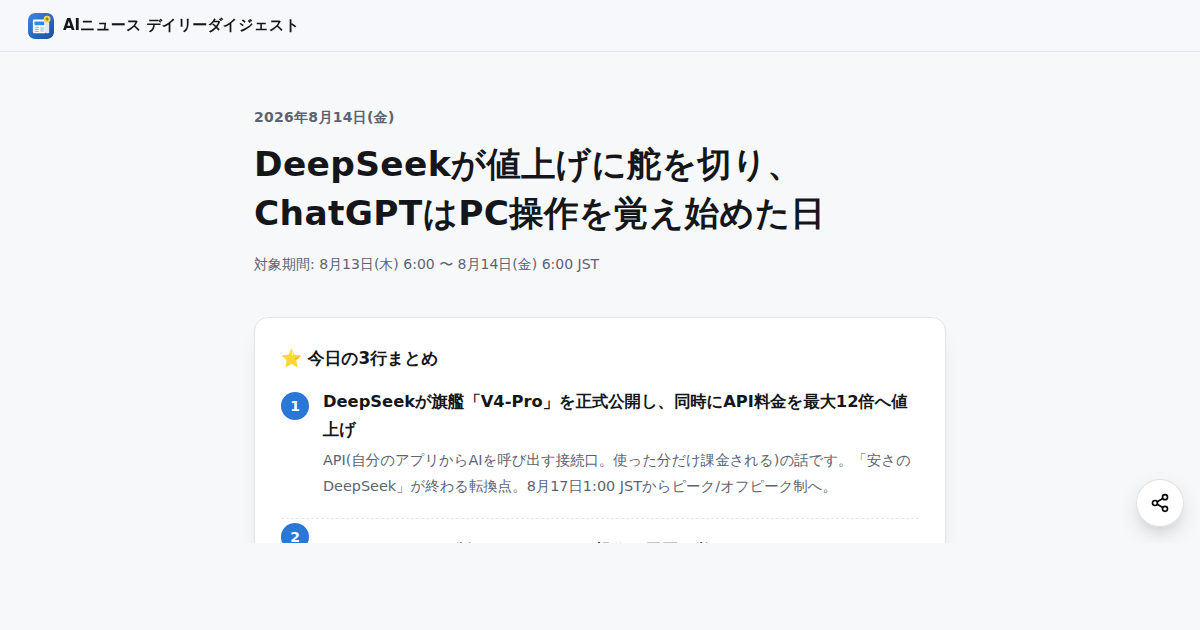
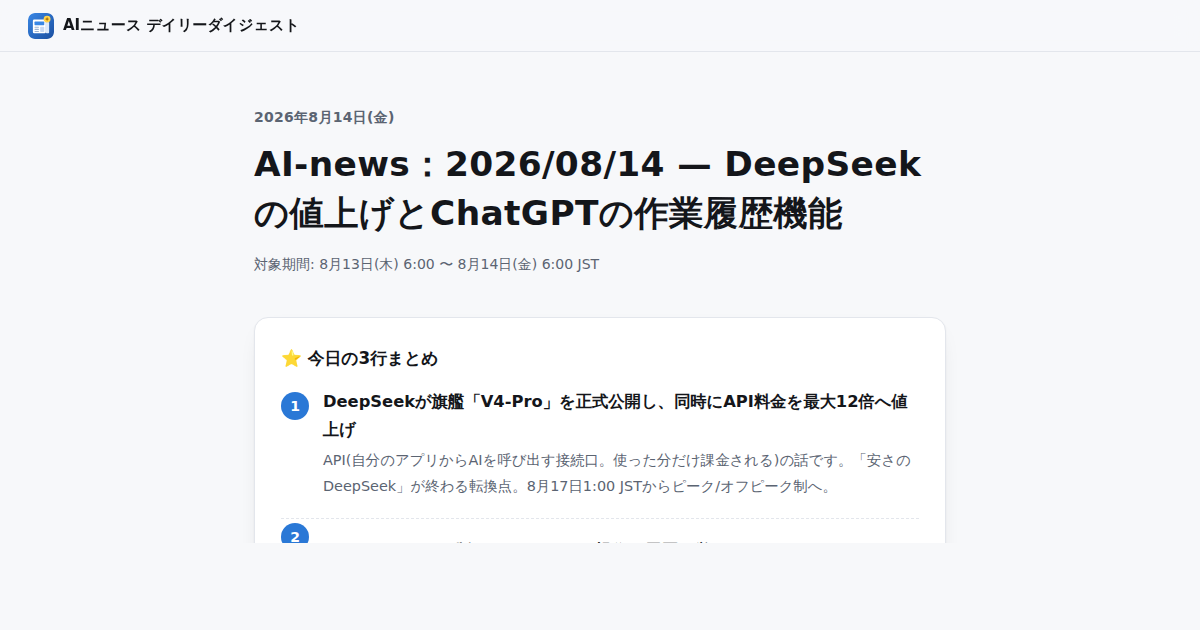
サムネイルを全21枚撮り直し、OGP画像を記事ごとの絵に変更
サムネイルに2つ問題があった。

1. 19枚が古いまま残っていた。サムネイルは記事の見出しを写した画像なので、
   タイトルを直しても撮り直さないと、ホームのカードとSNSのシェア画像にだけ
   昔の見出しが残る。8/15のダイジェストは、AI-news形式に直す前の
   「…黙って背景実行になり…「最強」を名乗った日」を表示したままだった。
2. 全枚数に、画面右下に浮いているシェアボタンが写り込んでいた。
   chromium に記事HTMLをそのまま撮らせていたため。

_render_thumbs.py を追加した。撮影用の一時HTMLを作り、シェアボタン・
コメント欄・計測タグを外してから撮る。記事本体は書き換えない。
--stale を付けると、記事HTMLより古いものだけを撮り直す。

あわせて og:image / twitter:image を、共通の ogp.png ではなく
その記事自身のサムネイルに向けた(_build_index.py が生成時に差し替える)。
これまではどの記事をシェアしても同じ絵が出て、見分けが付かなかった。

ホームの「毎朝 6:00 JST 更新」も 5:00 に直した。実際の定期実行は
5:00 JST で、表示だけが古いまま残っていた(description と README も同様)。

全21枚を Read で目視確認。1200x630、内容の重複なし。
表示検証は44通り(21記事+ホーム × 380/900px)で問題なし。

Changed region(s): [[0.2158, 0.2111, 0.7708, 0.3619], [0.9558, 0.7841, 0.9867, 0.8143]]

diff --git a/_templates/home.html b/_templates/home.html
@@ -4,12 +4,12 @@
 <meta charset="utf-8">
 <meta name="viewport" content="width=device-width, initial-scale=1">
 <title>AIニュース デイリーダイジェスト</title>
-<meta name="description" content="世界のAIニュースを日本語で、毎朝6:00にお届けするデイリーダイジェスト">
+<meta name="description" content="世界のAIニュースを日本語で、毎朝5:00にお届けするデイリーダイジェスト">
 <link rel="icon" type="image/svg+xml" href="favicon.svg">
 <link rel="apple-touch-icon" href="favicon.svg">
 <meta property="og:type" content="website">
 <meta property="og:title" content="AIニュース デイリーダイジェスト">
-<meta property="og:description" content="世界のAIニュースを日本語で、毎朝6:00にお届け">
+<meta property="og:description" content="世界のAIニュースを日本語で、毎朝5:00にお届け">
 <meta property="og:url" content="https://reishisu.github.io/ai-news/">
 <meta property="og:image" content="https://reishisu.github.io/ai-news/ogp.png">
 <meta name="twitter:card" content="summary_large_image">
@@ -23,7 +23,7 @@
     <img src="favicon.svg" alt="" width="28" height="28">
     <span>AIニュース デイリーダイジェスト</span>
   </a>
-  <span class="topbar-chip"><span class="dot"></span>毎朝 6:00 JST 更新</span>
+  <span class="topbar-chip"><span class="dot"></span>毎朝 5:00 JST 更新</span>
 </header>
 
 <main class="container">

diff --git a/index.html b/index.html
@@ -4,12 +4,12 @@
 <meta charset="utf-8">
 <meta name="viewport" content="width=device-width, initial-scale=1">
 <title>AIニュース デイリーダイジェスト</title>
-<meta name="description" content="世界のAIニュースを日本語で、毎朝6:00にお届けするデイリーダイジェスト">
+<meta name="description" content="世界のAIニュースを日本語で、毎朝5:00にお届けするデイリーダイジェスト">
 <link rel="icon" type="image/svg+xml" href="favicon.svg">
 <link rel="apple-touch-icon" href="favicon.svg">
 <meta property="og:type" content="website">
 <meta property="og:title" content="AIニュース デイリーダイジェスト">
-<meta property="og:description" content="世界のAIニュースを日本語で、毎朝6:00にお届け">
+<meta property="og:description" content="世界のAIニュースを日本語で、毎朝5:00にお届け">
 <meta property="og:url" content="https://reishisu.github.io/ai-news/">
 <meta property="og:image" content="https://reishisu.github.io/ai-news/ogp.png">
 <meta name="twitter:card" content="summary_large_image">
@@ -23,7 +23,7 @@
     <img src="favicon.svg" alt="" width="28" height="28">
     <span>AIニュース デイリーダイジェスト</span>
   </a>
-  <span class="topbar-chip"><span class="dot"></span>毎朝 6:00 JST 更新</span>
+  <span class="topbar-chip"><span class="dot"></span>毎朝 5:00 JST 更新</span>
 </header>
 
 <main class="container">

diff --git a/contents/2026-08-15_aws-iam-first/index.html b/contents/2026-08-15_aws-iam-first/index.html
@@ -11,7 +11,7 @@
 <meta property="og:title" content="AWSのアクセス制御の地図 — IAMのユーザー・ロール・ポリシーは何が違うのか">
 <meta property="og:description" content="ユーザーとロールの違い、許可ポリシーと信頼ポリシーの見分け方、ECS on Fargateの2つのロール。公式ドキュメントの原文とローカル検証で整理します。">
 <meta property="og:url" content="https://reishisu.github.io/ai-news/contents/2026-08-15_aws-iam-first/">
-<meta property="og:image" content="https://reishisu.github.io/ai-news/ogp.png">
+<meta property="og:image" content="https://reishisu.github.io/ai-news/contents/2026-08-15_aws-iam-first/images/thumb.png">
 <meta name="twitter:card" content="summary_large_image">
 <link rel="stylesheet" href="../../css/article.css?v=87fa5662">
 

diff --git a/contents/2026-08-14_loop-graph/index.html b/contents/2026-08-14_loop-graph/index.html
@@ -11,7 +11,7 @@
 <meta property="og:title" content="ループエンジニアリングとグラフエンジニアリング — Claude Codeで設計する">
 <meta property="og:description" content="プロンプトを書く時代から、ループとグラフを設計する時代へ。停止条件の書き方と、ループからグラフへ移る判断基準を整理します。">
 <meta property="og:url" content="https://reishisu.github.io/ai-news/contents/2026-08-14_loop-graph/">
-<meta property="og:image" content="https://reishisu.github.io/ai-news/ogp.png">
+<meta property="og:image" content="https://reishisu.github.io/ai-news/contents/2026-08-14_loop-graph/images/thumb.png">
 <meta name="twitter:card" content="summary_large_image">
 <link rel="stylesheet" href="../../css/article.css?v=87fa5662">
 

diff --git a/contents/2026-08-14_progress-signals/index.html b/contents/2026-08-14_progress-signals/index.html
@@ -11,7 +11,7 @@
 <meta property="og:title" content="進行管理の指標 — gitログから停滞を検出する">
 <meta property="og:description" content="詰まっている人を本人が言い出す前に見つける。2020年版スクラムガイドに3つの質問は無く、しきい値の決め打ちは実データで何も検出しませんでした。">
 <meta property="og:url" content="https://reishisu.github.io/ai-news/contents/2026-08-14_progress-signals/">
-<meta property="og:image" content="https://reishisu.github.io/ai-news/ogp.png">
+<meta property="og:image" content="https://reishisu.github.io/ai-news/contents/2026-08-14_progress-signals/images/thumb.png">
 <meta name="twitter:card" content="summary_large_image">
 <link rel="stylesheet" href="../../css/article.css?v=87fa5662">
 

diff --git a/contents/2026-08-15_ecs-fargate-first/index.html b/contents/2026-08-15_ecs-fargate-first/index.html
@@ -11,7 +11,7 @@
 <meta property="og:title" content="ECS on Fargate の登場人物 — クラスタ・タスク定義・サービス・ALB">
 <meta property="og:description" content="クラスタは「サーバーの集まり」ではありません。名前だけで作れる区切りです。公式の原文と実出力で登場人物を整理します。">
 <meta property="og:url" content="https://reishisu.github.io/ai-news/contents/2026-08-15_ecs-fargate-first/">
-<meta property="og:image" content="https://reishisu.github.io/ai-news/ogp.png">
+<meta property="og:image" content="https://reishisu.github.io/ai-news/contents/2026-08-15_ecs-fargate-first/images/thumb.png">
 <meta name="twitter:card" content="summary_large_image">
 <link rel="stylesheet" href="../../css/article.css?v=87fa5662">
 

diff --git a/contents/2026-08-15_unity-web-on-aws/index.html b/contents/2026-08-15_unity-web-on-aws/index.html
@@ -11,7 +11,7 @@
 <meta property="og:title" content="Unity WebのビルドをAWSで配ってもらう — COOP/COEP/CORPの依頼先">
 <meta property="og:description" content="ALBでは付けられません。CloudFrontのレスポンスヘッダーポリシーです。同じヘッダーが2本返ると、仕様どおり無言で解除されます。">
 <meta property="og:url" content="https://reishisu.github.io/ai-news/contents/2026-08-15_unity-web-on-aws/">
-<meta property="og:image" content="https://reishisu.github.io/ai-news/ogp.png">
+<meta property="og:image" content="https://reishisu.github.io/ai-news/contents/2026-08-15_unity-web-on-aws/images/thumb.png">
 <meta name="twitter:card" content="summary_large_image">
 <link rel="stylesheet" href="../../css/article.css?v=87fa5662">
 

diff --git a/contents/2026-08-15_terraform-first/index.html b/contents/2026-08-15_terraform-first/index.html
@@ -11,7 +11,7 @@
 <meta property="og:title" content="Terraform を最初に動かす — init / validate / plan の役割と、plan の読み方">
 <meta property="og:description" content="plan は何も作らない。ダミーの認証情報でも差分は出る。実出力を加工せず全部載せます。apply は実行していません。">
 <meta property="og:url" content="https://reishisu.github.io/ai-news/contents/2026-08-15_terraform-first/">
-<meta property="og:image" content="https://reishisu.github.io/ai-news/ogp.png">
+<meta property="og:image" content="https://reishisu.github.io/ai-news/contents/2026-08-15_terraform-first/images/thumb.png">
 <meta name="twitter:card" content="summary_large_image">
 <link rel="stylesheet" href="../../css/article.css?v=87fa5662">
 

diff --git a/contents/2026-08-15_001/index.html b/contents/2026-08-15_001/index.html
@@ -11,7 +11,7 @@
 <meta property="og:title" content="AI-news：2026/08/15 — Claude Codeのサブエージェント背景実行とGLM-5.3の重み非公開">
 <meta property="og:description" content="Claude Codeのサブエージェントfork既定化、ChatGPTのGoogle Drive直接編集、PostgreSQLの脆弱性28件一括修正、GLM-5.3の重み非公開など。">
 <meta property="og:url" content="https://reishisu.github.io/ai-news/contents/2026-08-15_001/">
-<meta property="og:image" content="https://reishisu.github.io/ai-news/ogp.png">
+<meta property="og:image" content="https://reishisu.github.io/ai-news/contents/2026-08-15_001/images/thumb.png">
 <meta name="twitter:card" content="summary_large_image">
 <link rel="stylesheet" href="../../css/article.css?v=87fa5662">
 

diff --git a/contents/2026-08-15_laravel-first/index.html b/contents/2026-08-15_laravel-first/index.html
@@ -11,7 +11,7 @@
 <meta property="og:title" content="Laravel を最初に動かすまで — composer、artisan、最初のテストが落ちる理由">
 <meta property="og:description" content="インストールから php artisan serve まで、実行ログをそのまま貼ります。テストが落ちる2つの原因も実測しました。">
 <meta property="og:url" content="https://reishisu.github.io/ai-news/contents/2026-08-15_laravel-first/">
-<meta property="og:image" content="https://reishisu.github.io/ai-news/ogp.png">
+<meta property="og:image" content="https://reishisu.github.io/ai-news/contents/2026-08-15_laravel-first/images/thumb.png">
 <meta name="twitter:card" content="summary_large_image">
 <link rel="stylesheet" href="../../css/article.css?v=87fa5662">
 

diff --git a/contents/2026-08-14_inapp-browser-choice/index.html b/contents/2026-08-14_inapp-browser-choice/index.html
@@ -11,7 +11,7 @@
 <meta property="og:title" content="アプリ内ブラウザの選び方 — WebView / Custom Tabs / SFSafariViewController">
 <meta property="og:description" content="「SFSafariViewController = iOS版Custom Tabs」は一次資料では成り立ちません。実測と原文で確認しました。">
 <meta property="og:url" content="https://reishisu.github.io/ai-news/contents/2026-08-14_inapp-browser-choice/">
-<meta property="og:image" content="https://reishisu.github.io/ai-news/ogp.png">
+<meta property="og:image" content="https://reishisu.github.io/ai-news/contents/2026-08-14_inapp-browser-choice/images/thumb.png">
 <meta name="twitter:card" content="summary_large_image">
 <link rel="stylesheet" href="../../css/article.css?v=87fa5662">
 

diff --git a/contents/2026-08-14_001/index.html b/contents/2026-08-14_001/index.html
@@ -11,7 +11,7 @@
 <meta property="og:title" content="AI-news：2026/08/14 — DeepSeekの値上げとChatGPTの作業履歴機能">
 <meta property="og:description" content="DeepSeek V4-Pro正式版とAPI最大12倍の値上げ、ChatGPT Mac版の「Computer History」、Anthropicのマルチエージェント実験など。">
 <meta property="og:url" content="https://reishisu.github.io/ai-news/contents/2026-08-14_001/">
-<meta property="og:image" content="https://reishisu.github.io/ai-news/ogp.png">
+<meta property="og:image" content="https://reishisu.github.io/ai-news/contents/2026-08-14_001/images/thumb.png">
 <meta name="twitter:card" content="summary_large_image">
 <link rel="stylesheet" href="../../css/article.css?v=87fa5662">
 
